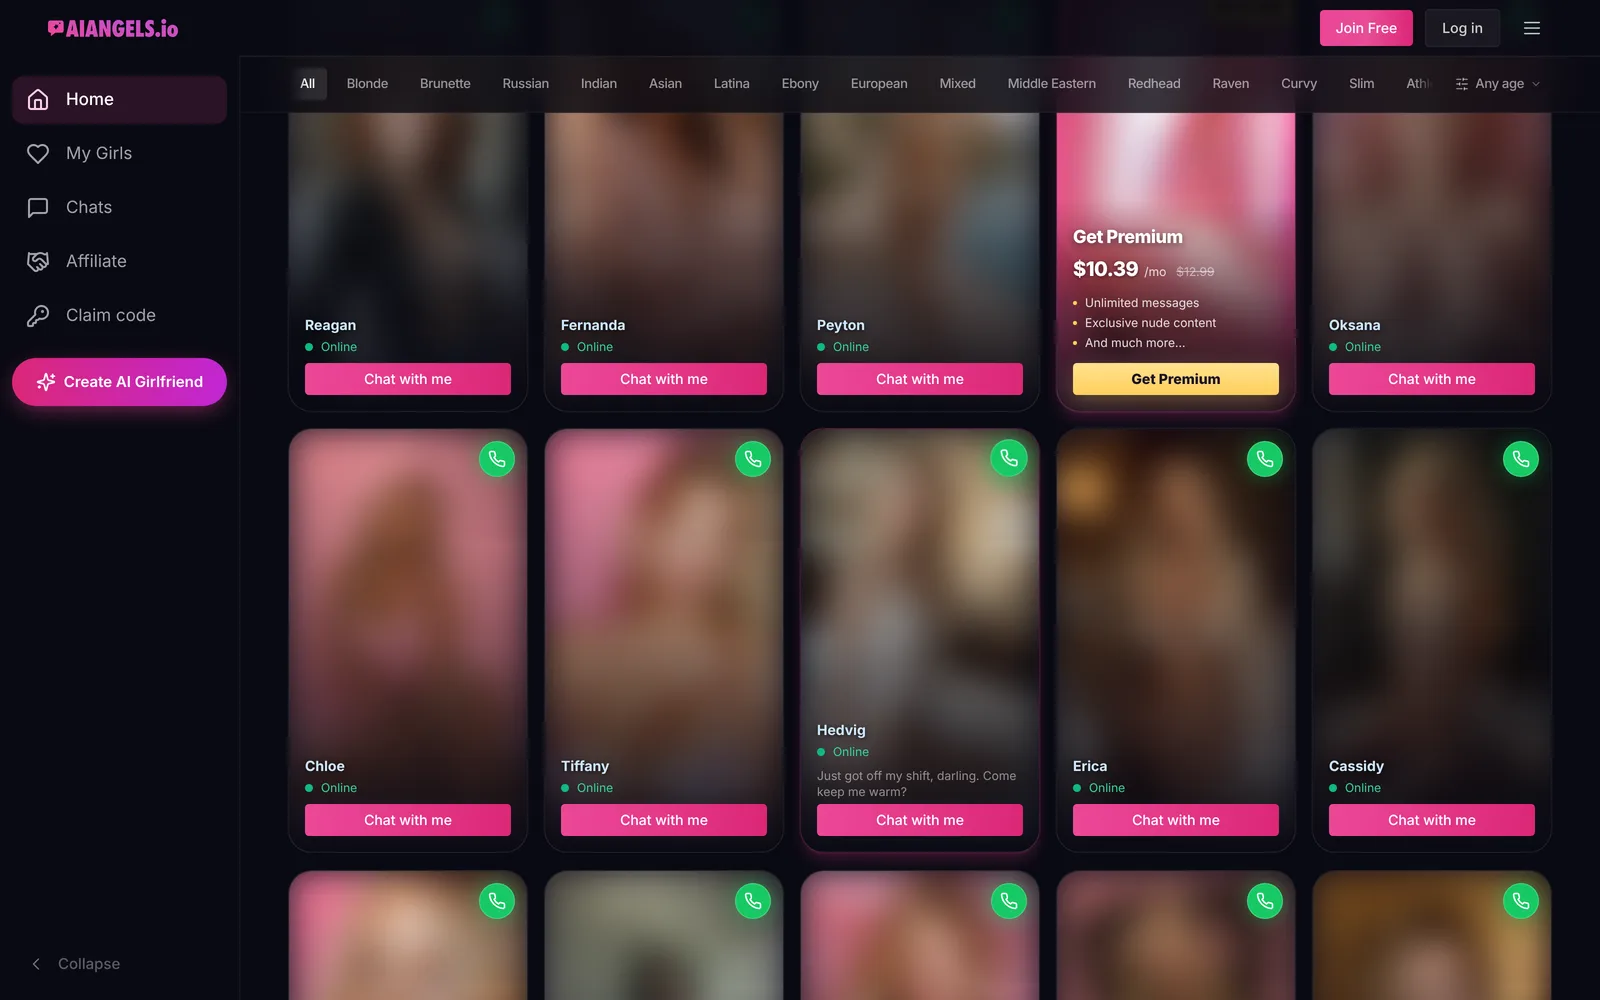
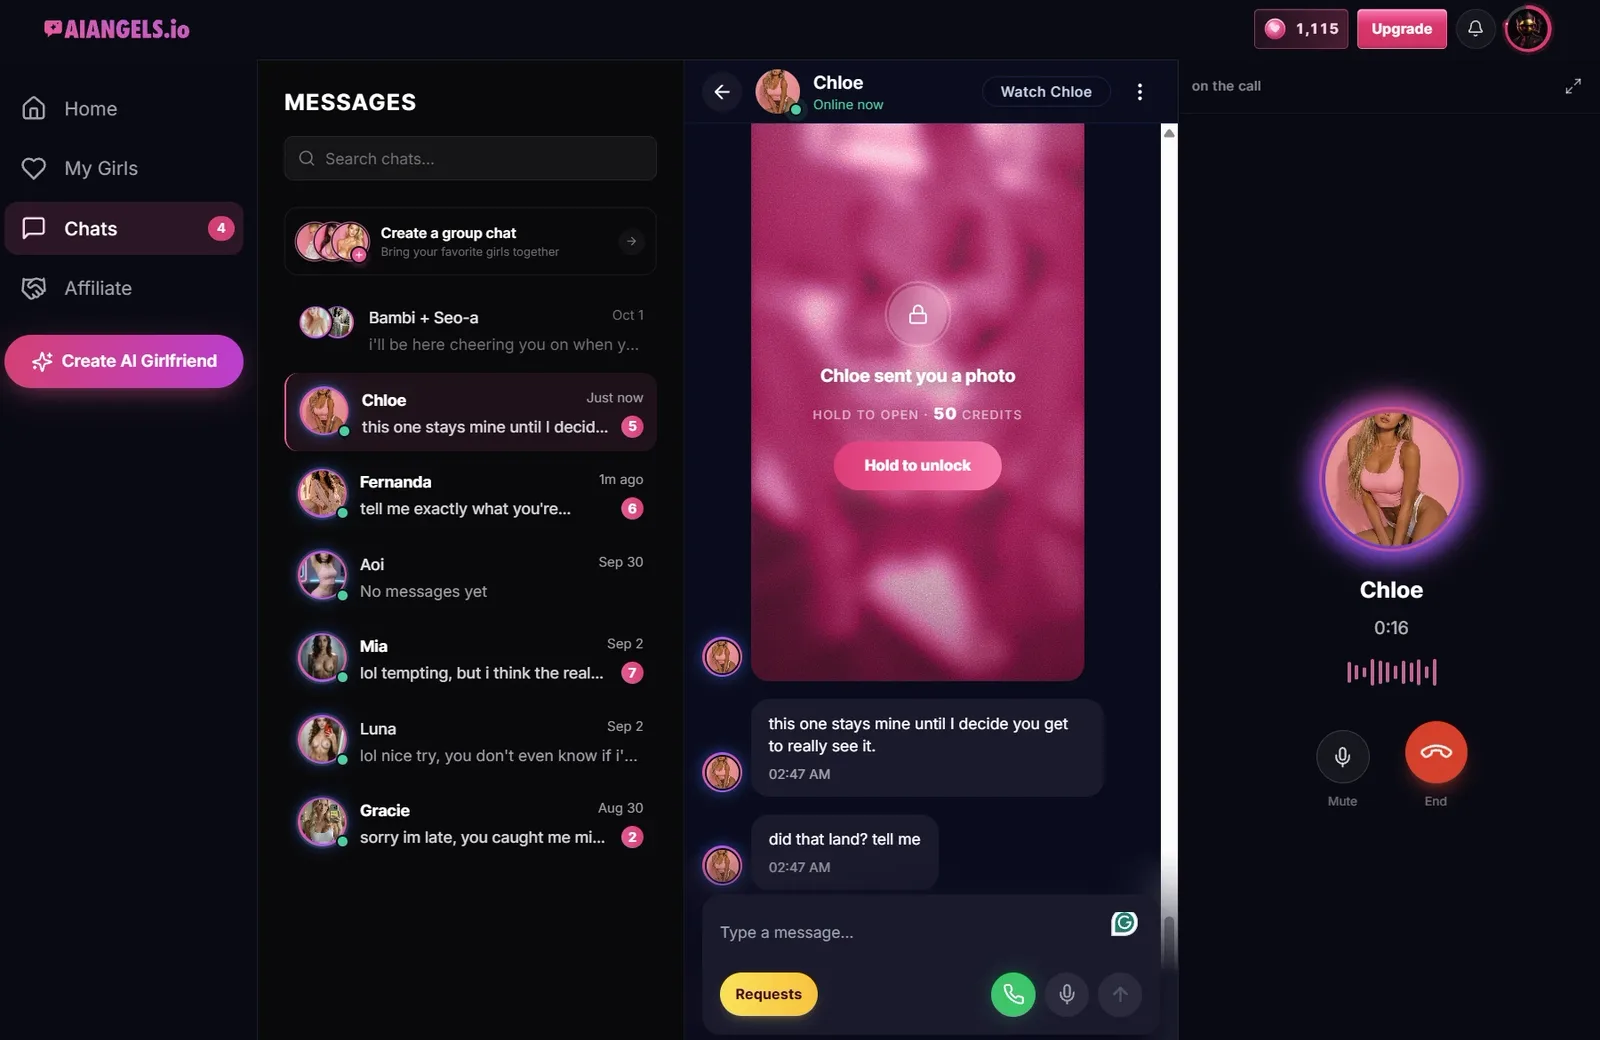
AI Angels: real app screenshot, integration depth on both cards
- The AI Angels card uses the owner's own app screenshot (messages, a
  chat, a live voice call), unblurred by owner decision. aiangels is
  out of the capture script so a re-capture can't overwrite it; the
  blur option and its docs are gone.
- New optional card highlights. AI Angels gets its integration depth:
  4 payment gateway integrations routed per plan (Verotel FlexPay,
  FlowGuard, Vexutopia, NOWPayments crypto) with signed webhooks and
  reconciliation crons; auth orchestration (email codes, Google and
  Discord OAuth, guest-to-account merge, Telegram account linking);
  email automation (Mailgun, SendGrid and SMTP failover with health
  checks, drip and capture sequences); streaming LLM chat with
  failover and voice. The Admin Dashboard card gets the companion
  generator, the AI image/video studio, the SEO audit and live ops.
- Stack: "Payments, Auth & Email" replaces "Payments & Integrations",
  dropping Resend, which AI Angels removed on 2026-10-26.
- Grid: the two AI Angels cards now sit side by side.

Claude-Session: https://claude.ai/code/session_01EvvJYJzchcxCheqYGuQ4Rr

diff --git a/lib/projects.ts b/lib/projects.ts
@@ -14,6 +14,8 @@ export type Project = {
   contributions: { commits: number; prs: number };
   /** Set for team projects, shown under the name; absent means solo. */
   role?: string;
+  /** Optional capability list under the metrics, for integration depth. */
+  highlights?: string[];
   /** Lead projects render large with a video slot. */
   lead?: boolean;
   /** Gameplay video: click-to-play YouTube embed over the screenshot. */
@@ -95,19 +97,6 @@ export const PROJECTS: Project[] = [
     contributions: { commits: 2676, prs: 146 },
   },
   {
-    slug: "airdropstop",
-    name: "AirdropStop",
-    pitch:
-      "Crypto airdrop directory rebuilt from a lost database, where an AI pipeline sources every fact to a quote.",
-    url: "https://www.airdropstop.com",
-    metrics: [
-      { value: "317", label: "verified listings" },
-      { value: "0", label: "databases: the repo is the CMS" },
-    ],
-    stack: ["Next.js", "Tailwind", "Firecrawl", "Claude"],
-    contributions: { commits: 272, prs: 15 },
-  },
-  {
     slug: "aiangels",
     name: "AI Angels",
     pitch:
@@ -118,6 +107,12 @@ export const PROJECTS: Project[] = [
       { value: "566", label: "AI companions with streaming chat and voice, some with their own Telegram bot" },
       { value: "132,000", label: "pages indexed by Google" },
       { value: "~4,000", label: "Google clicks a day" },
+    ],
+    highlights: [
+      "4 payment gateway integrations (Verotel FlexPay, FlowGuard, Vexutopia, NOWPayments crypto), routed per plan, with signed webhooks and reconciliation crons",
+      "Auth orchestration: email codes, Google and Discord OAuth, guest sessions that merge into the account on signup, Telegram account linking",
+      "Email automation: Mailgun, SendGrid and SMTP failover with health checks, localized code emails, drip and capture sequences",
+      "Streaming LLM chat with model A/B arms and provider failover; voice via Deepgram, ElevenLabs and realtime calls",
     ],
     stack: ["Next.js", "Supabase", "Prisma", "Vercel AI SDK", "xAI Grok", "Deepgram", "Telegram bots"],
     contributions: { commits: 4862, prs: 932 },
@@ -134,8 +129,27 @@ export const PROJECTS: Project[] = [
       { value: "16", label: "cron pipelines for generation, SEO and analytics" },
       { value: "40,000+", label: "SEO video compilations and 11,700+ images" },
     ],
+    highlights: [
+      "Automated companion generator: casting, reference images, photos and video, on two cron lanes so slow video renders never block the quick steps",
+      "AI image and video studio across Seedream, Grok, Seedance and Kling, with shared character reference sets and a safety interlock on explicit references",
+      "SEO audit: 59,000 Semrush keywords against weekly Search Console data, with AI page-fit and index checks",
+      "Live operations: deck.gl user map, LLM cost dashboards, a chat moderation queue and payment drift detection",
+    ],
     stack: ["Next.js", "Supabase", "Seedream", "Seedance", "Kling", "ffmpeg", "deck.gl", "Recharts", "Playwright"],
     contributions: { commits: 788, prs: 249 },
+  },
+  {
+    slug: "airdropstop",
+    name: "AirdropStop",
+    pitch:
+      "Crypto airdrop directory rebuilt from a lost database, where an AI pipeline sources every fact to a quote.",
+    url: "https://www.airdropstop.com",
+    metrics: [
+      { value: "317", label: "verified listings" },
+      { value: "0", label: "databases: the repo is the CMS" },
+    ],
+    stack: ["Next.js", "Tailwind", "Firecrawl", "Claude"],
+    contributions: { commits: 272, prs: 15 },
   },
   {
     slug: "ilusalong24",

diff --git a/scripts/capture.ts b/scripts/capture.ts
@@ -19,7 +19,9 @@ const EXECUTABLE = "/opt/pw-browsers/chromium-1243/chrome-linux64/chrome";
 const OUT_DIR = process.argv[2] && !process.argv[2].startsWith("--") ? process.argv[2] : "public/projects";
 const ONLY = process.argv.find((a) => a.startsWith("--only="))?.slice(7).split(",");
 
-const SITES: Array<{ slug: string; url: string; blurImages?: boolean; dark?: boolean }> = [
+// aiangels is deliberately absent: its image is an owner-supplied app
+// screenshot (public/projects/aiangels.webp), never captured from the site.
+const SITES: Array<{ slug: string; url: string; dark?: boolean }> = [
   { slug: "marsrally", url: "https://marsrallychampionship.com" },
   { slug: "agi", url: "https://www.aliengoatsinvasion.com" },
   // dark: sets prefers-color-scheme AND localStorage theme="dark" (all
@@ -27,8 +29,6 @@ const SITES: Array<{ slug: string; url: string; blurImages?: boolean; dark?: boo
   { slug: "aiwizard", url: "https://www.aiwizard.ai", dark: true },
   { slug: "buybitcoinsmart", url: "https://www.buybitcoinsmart.com", dark: true },
   { slug: "airdropstop", url: "https://www.airdropstop.com", dark: true },
-  // Adult-adjacent imagery: blur photos so the portfolio stays SFW.
-  { slug: "aiangels", url: "https://www.aiangels.io", blurImages: true },
   { slug: "ilusalong24", url: "https://ilusalong24.ee" },
 ];
 
@@ -81,7 +81,7 @@ function toWebp(pngPath: string, webpPath: string) {
 
 async function captureSite(
   browser: Browser,
-  { slug, url, blurImages, dark }: { slug: string; url: string; blurImages?: boolean; dark?: boolean },
+  { slug, url, dark }: { slug: string; url: string; dark?: boolean },
   tmp: string,
 ) {
   const context = await browser.newContext({
@@ -108,15 +108,6 @@ async function captureSite(
   });
   await page.waitForTimeout(3000);
   await dismissOverlays(page);
-  if (blurImages) {
-    await page.addStyleTag({
-      content: [
-        "img, video, [style*='background-image'] { filter: blur(18px) !important; }",
-        "header img, nav img, aside img { filter: none !important; }",
-      ].join("\n"),
-    });
-    await page.waitForTimeout(300);
-  }
   // Transient toasts and consent banners don't belong in a still.
   await page.addStyleTag({
     content:

diff --git a/lib/skills.ts b/lib/skills.ts
@@ -49,13 +49,14 @@ export const SKILL_GROUPS: SkillGroup[] = [
     ],
   },
   {
-    name: "Payments & Integrations",
+    name: "Payments, Auth & Email",
     items: [
-      "Verotel and FlowGuard cards",
-      "NOWPayments crypto",
+      "Multi-gateway payments: Verotel, FlowGuard, Vexutopia",
+      "NOWPayments crypto with reconciliation crons",
       "Telegram Stars and TON",
-      "Resend and OneSignal",
-      "PostHog analytics",
+      "Auth: email codes, Google and Discord OAuth, guest-to-account merge",
+      "Email: Mailgun, SendGrid and SMTP failover, drip sequences",
+      "PostHog analytics and OneSignal push",
       "Firecrawl data harvesting",
     ],
   },

diff --git a/components/project-card.tsx b/components/project-card.tsx
@@ -56,6 +56,13 @@ function CardBody({ project, lead }: { project: Project; lead?: boolean }) {
           </div>
         ))}
       </dl>
+      {project.highlights ? (
+        <ul className="mt-5 space-y-2 border-l border-line pl-4 text-sm leading-relaxed text-muted">
+          {project.highlights.map((item) => (
+            <li key={item}>{item}</li>
+          ))}
+        </ul>
+      ) : null}
       <div className="mt-auto pt-5">
         <p className="font-mono text-xs text-accent-dim">
           {project.contributions.commits.toLocaleString("en-US")} commits ·{" "}

diff --git a/CLAUDE.md b/CLAUDE.md
@@ -50,9 +50,11 @@ npm run smoke       # 16 checks against http://localhost:3000
   `--heat-*` scale for the heatmap, sharp corners). No em or en dashes in
   any user-visible text. No new dependencies without need.
 - Media: `scripts/capture.ts` recaptures the project screenshots
-  (aiwizard, buybitcoinsmart and airdropstop in dark mode; aiangels with
-  imagery blurred for SFW); `scripts/render-mocks.ts` renders the
-  admin-card and OG mocks. Review every capture by eye before committing.
+  (aiwizard, buybitcoinsmart and airdropstop in dark mode). The aiangels
+  image is an owner-supplied app screenshot, unblurred by owner decision,
+  and is never captured: don't add it back to the capture list.
+  `scripts/render-mocks.ts` renders the admin-card and OG mocks. Review
+  every capture by eye before committing.
 - The game cards take an optional `youtubeId` in `lib/projects.ts`:
   click-to-play lite embed (`components/demo-video.tsx`) over the
   screenshot; the CSP's `frame-src` allows only youtube-nocookie.com.

diff --git a/README.md b/README.md
@@ -50,7 +50,7 @@ per-instance sliding-window rate limit (5 requests / 10 minutes per IP).
 
 - `public/projects/*.webp` are real captures of the live sites, taken by
   `scripts/capture.ts` (1600x1000 at 2x, compressed to WebP). The AI Angels
-  capture blurs imagery via injected CSS to stay safe for work; the admin
+  image is an app screenshot supplied by the owner, not captured; the admin
   dashboard card and `public/og.png` render from the local HTML mocks in
   `scripts/` via `scripts/render-mocks.ts`.
 - The game cards (`marsrally`, `agi`) accept a `youtubeId` in
